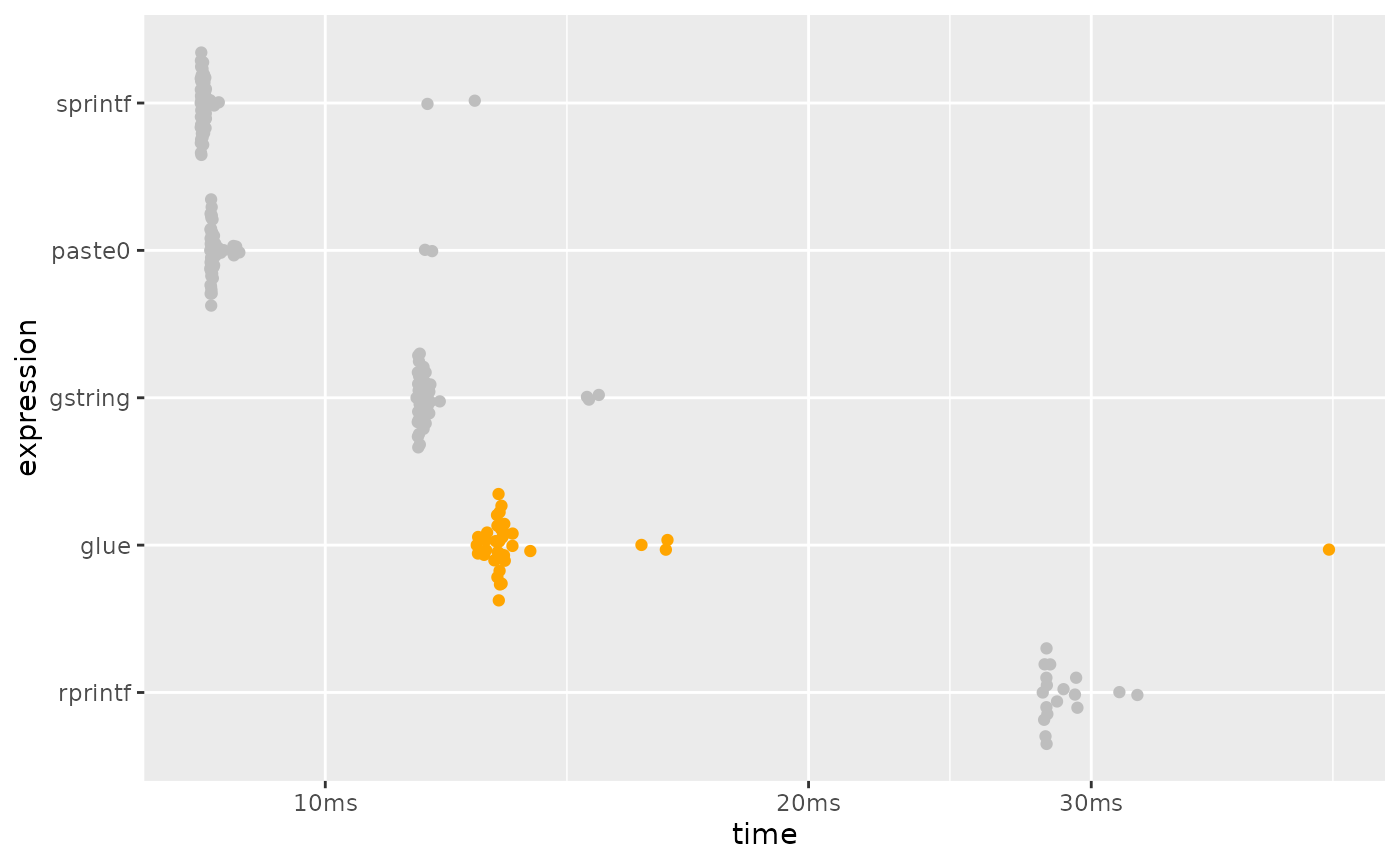
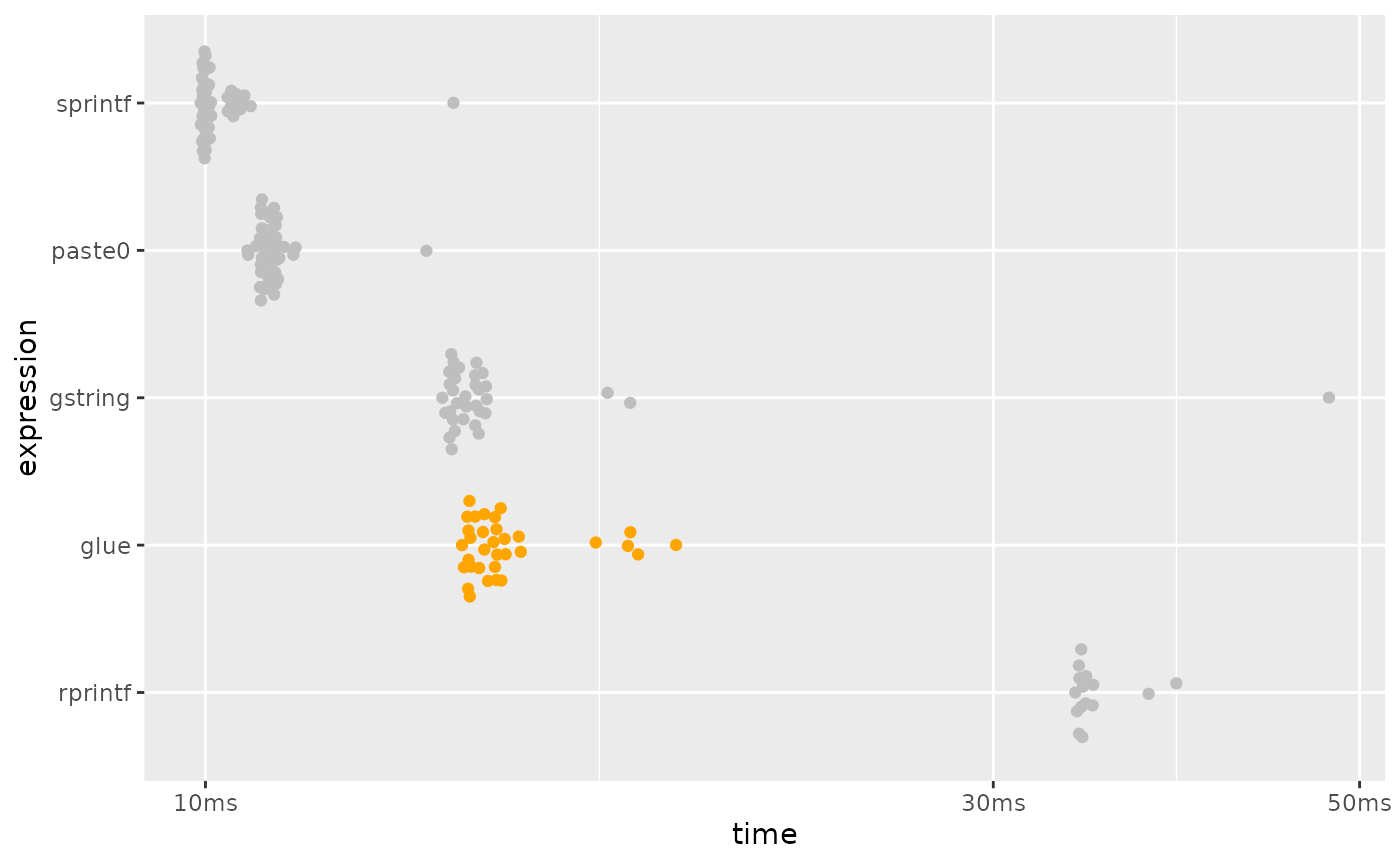
Deploying to gh-pages from @ tidyverse/glue@cfb83f1bbf6cd448d0e4ca64edb74a731b028217 🚀

diff --git a/dev/articles/speed.html b/dev/articles/speed.html
@@ -156,11 +156,11 @@ this benchmark, but is now formally marked as “superseded”, in favor of
 <span><span class="co">#&gt; <span style="color: #949494;"># A tibble: 5 × 6</span></span></span>
 <span><span class="co">#&gt;   expression      min   median `itr/sec` mem_alloc `gc/sec`</span></span>
 <span><span class="co">#&gt;   <span style="color: #949494; font-style: italic;">&lt;bch:expr&gt;</span> <span style="color: #949494; font-style: italic;">&lt;bch:tm&gt;</span> <span style="color: #949494; font-style: italic;">&lt;bch:tm&gt;</span>     <span style="color: #949494; font-style: italic;">&lt;dbl&gt;</span> <span style="color: #949494; font-style: italic;">&lt;bch:byt&gt;</span>    <span style="color: #949494; font-style: italic;">&lt;dbl&gt;</span></span></span>
-<span><span class="co">#&gt; <span style="color: #BCBCBC;">1</span> sprintf     721.1ns 771.02ns  1<span style="text-decoration: underline;">203</span>670.        0B     0   </span></span>
-<span><span class="co">#&gt; <span style="color: #BCBCBC;">2</span> paste0        1.4µs   1.52µs   <span style="text-decoration: underline;">631</span>452.        0B     0   </span></span>
-<span><span class="co">#&gt; <span style="color: #BCBCBC;">3</span> glue           93µs  98.15µs     <span style="text-decoration: underline;">9</span>837.  141.72KB     8.19</span></span>
-<span><span class="co">#&gt; <span style="color: #BCBCBC;">4</span> gstring     216.2µs  227.7µs     <span style="text-decoration: underline;">4</span>264.    2.43MB     6.15</span></span>
-<span><span class="co">#&gt; <span style="color: #BCBCBC;">5</span> rprintf     272.3µs 284.94µs     <span style="text-decoration: underline;">3</span>416.  504.06KB     4.05</span></span>
+<span><span class="co">#&gt; <span style="color: #BCBCBC;">1</span> sprintf    821.89ns    982ns   <span style="text-decoration: underline;">983</span>184.        0B     0   </span></span>
+<span><span class="co">#&gt; <span style="color: #BCBCBC;">2</span> paste0       1.66µs    1.8µs   <span style="text-decoration: underline;">510</span>274.        0B    51.0 </span></span>
+<span><span class="co">#&gt; <span style="color: #BCBCBC;">3</span> glue        84.82µs   90.6µs    <span style="text-decoration: underline;">10</span>721.  141.72KB    10.3 </span></span>
+<span><span class="co">#&gt; <span style="color: #BCBCBC;">4</span> gstring    207.73µs  220.7µs     <span style="text-decoration: underline;">4</span>434.    2.43MB     4.08</span></span>
+<span><span class="co">#&gt; <span style="color: #BCBCBC;">5</span> rprintf    292.66µs  309.1µs     <span style="text-decoration: underline;">3</span>197.  504.06KB     2.01</span></span>
 <span></span>
 <span><span class="co"># plotting function defined in a hidden chunk</span></span>
 <span><span class="fu">plot_comparison</span><span class="op">(</span><span class="va">simple</span><span class="op">)</span></span></code></pre></div>
@@ -203,11 +203,11 @@ performance is much closer to that of <code><a href="https://rdrr.io/r/base/past
 <span><span class="co">#&gt; <span style="color: #949494;"># A tibble: 5 × 6</span></span></span>
 <span><span class="co">#&gt;   expression      min   median `itr/sec` mem_alloc `gc/sec`</span></span>
 <span><span class="co">#&gt;   <span style="color: #949494; font-style: italic;">&lt;bch:expr&gt;</span> <span style="color: #949494; font-style: italic;">&lt;bch:tm&gt;</span> <span style="color: #949494; font-style: italic;">&lt;bch:tm&gt;</span>     <span style="color: #949494; font-style: italic;">&lt;dbl&gt;</span> <span style="color: #949494; font-style: italic;">&lt;bch:byt&gt;</span>    <span style="color: #949494; font-style: italic;">&lt;dbl&gt;</span></span></span>
-<span><span class="co">#&gt; <span style="color: #BCBCBC;">1</span> sprintf      8.36ms   8.39ms     119.    781.3KB     4.18</span></span>
-<span><span class="co">#&gt; <span style="color: #BCBCBC;">2</span> paste0       8.48ms    8.5ms     117.    781.3KB     4.18</span></span>
-<span><span class="co">#&gt; <span style="color: #BCBCBC;">3</span> gstring      11.4ms  11.48ms      86.9    1.53MB     6.52</span></span>
-<span><span class="co">#&gt; <span style="color: #BCBCBC;">4</span> glue        12.43ms  12.83ms      78.1    2.29MB     9.76</span></span>
-<span><span class="co">#&gt; <span style="color: #BCBCBC;">5</span> rprintf     27.98ms  28.14ms      35.2    3.05MB     4.40</span></span>
+<span><span class="co">#&gt; <span style="color: #BCBCBC;">1</span> sprintf      9.93ms     10ms      98.8   781.3KB     2.06</span></span>
+<span><span class="co">#&gt; <span style="color: #BCBCBC;">2</span> paste0       10.6ms   10.9ms      91.5   781.3KB     2.03</span></span>
+<span><span class="co">#&gt; <span style="color: #BCBCBC;">3</span> gstring     13.91ms   14.3ms      69.7    1.53MB     6.97</span></span>
+<span><span class="co">#&gt; <span style="color: #BCBCBC;">4</span> glue         14.3ms   14.8ms      67.3    2.29MB     9.28</span></span>
+<span><span class="co">#&gt; <span style="color: #BCBCBC;">5</span> rprintf     33.63ms   33.9ms      29.4    3.05MB     4.53</span></span>
 <span></span>
 <span><span class="co"># plotting function defined in a hidden chunk</span></span>
 <span><span class="fu">plot_comparison</span><span class="op">(</span><span class="va">vectorized</span><span class="op">)</span></span></code></pre></div>

diff --git a/dev/articles/speed.md b/dev/articles/speed.md
@@ -65,11 +65,11 @@ simple |>
 #> # A tibble: 5 × 6
 #>   expression      min   median `itr/sec` mem_alloc `gc/sec`
 #>   <bch:expr> <bch:tm> <bch:tm>     <dbl> <bch:byt>    <dbl>
-#> 1 sprintf     721.1ns 771.02ns  1203670.        0B     0   
-#> 2 paste0        1.4µs   1.52µs   631452.        0B     0   
-#> 3 glue           93µs  98.15µs     9837.  141.72KB     8.19
-#> 4 gstring     216.2µs  227.7µs     4264.    2.43MB     6.15
-#> 5 rprintf     272.3µs 284.94µs     3416.  504.06KB     4.05
+#> 1 sprintf    821.89ns    982ns   983184.        0B     0   
+#> 2 paste0       1.66µs    1.8µs   510274.        0B    51.0 
+#> 3 glue        84.82µs   90.6µs    10721.  141.72KB    10.3 
+#> 4 gstring    207.73µs  220.7µs     4434.    2.43MB     4.08
+#> 5 rprintf    292.66µs  309.1µs     3197.  504.06KB     2.01
 
 # plotting function defined in a hidden chunk
 plot_comparison(simple)
@@ -125,11 +125,11 @@ vectorized |>
 #> # A tibble: 5 × 6
 #>   expression      min   median `itr/sec` mem_alloc `gc/sec`
 #>   <bch:expr> <bch:tm> <bch:tm>     <dbl> <bch:byt>    <dbl>
-#> 1 sprintf      8.36ms   8.39ms     119.    781.3KB     4.18
-#> 2 paste0       8.48ms    8.5ms     117.    781.3KB     4.18
-#> 3 gstring      11.4ms  11.48ms      86.9    1.53MB     6.52
-#> 4 glue        12.43ms  12.83ms      78.1    2.29MB     9.76
-#> 5 rprintf     27.98ms  28.14ms      35.2    3.05MB     4.40
+#> 1 sprintf      9.93ms     10ms      98.8   781.3KB     2.06
+#> 2 paste0       10.6ms   10.9ms      91.5   781.3KB     2.03
+#> 3 gstring     13.91ms   14.3ms      69.7    1.53MB     6.97
+#> 4 glue         14.3ms   14.8ms      67.3    2.29MB     9.28
+#> 5 rprintf     33.63ms   33.9ms      29.4    3.05MB     4.53
 
 # plotting function defined in a hidden chunk
 plot_comparison(vectorized)
